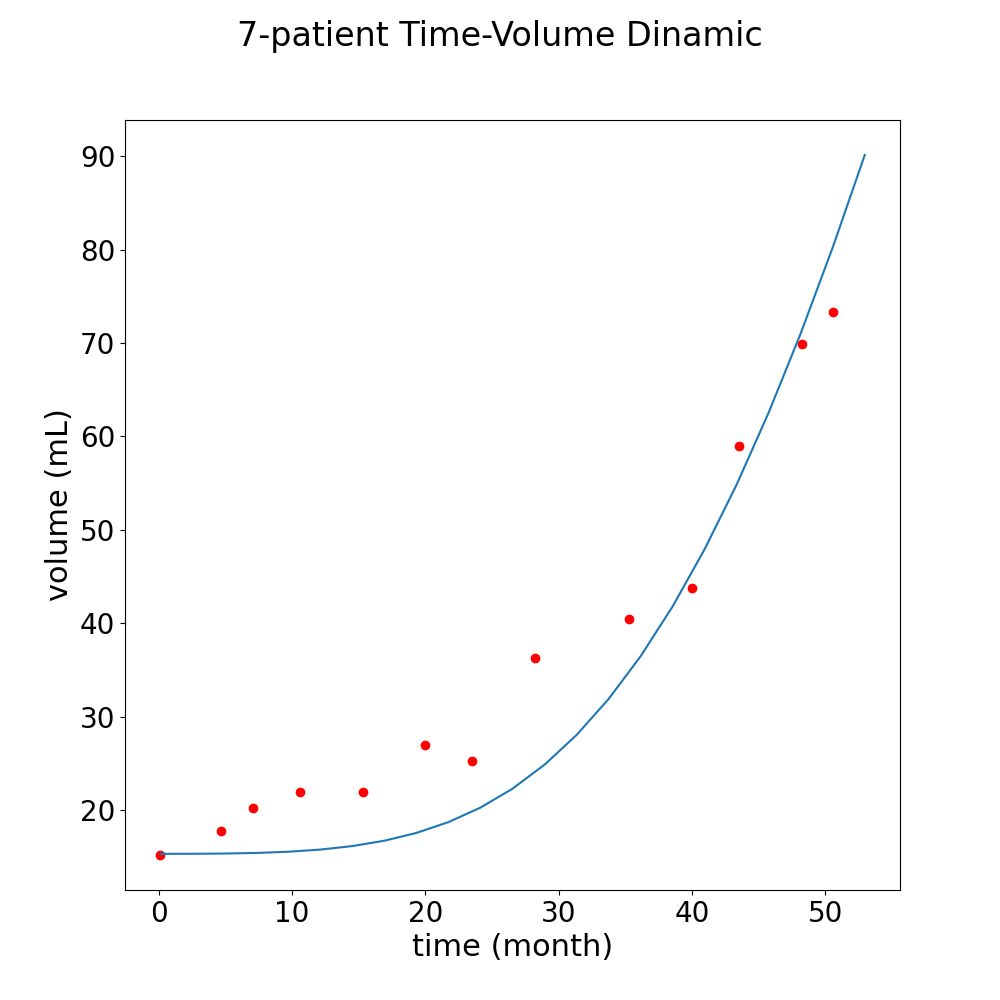
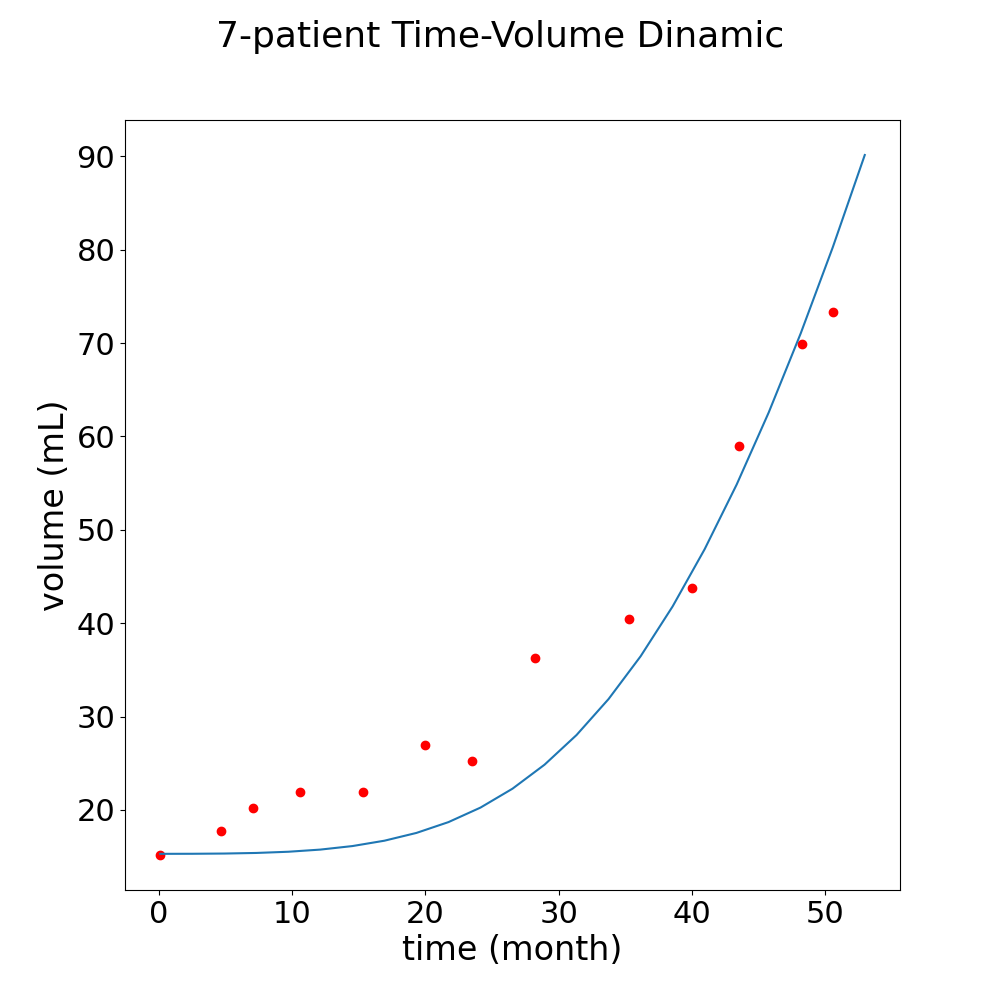
update the plot (more fontsize) and recalclulate (fix bugs) with relative error

diff --git a/NotLinearCancerModel/CancerVolumePlot.py b/NotLinearCancerModel/CancerVolumePlot.py
@@ -69,12 +69,12 @@ for number in range(1, quantity + 1):
     fig = plt.figure(figsize=(10, 10))
     ax = fig.add_subplot(111)
 
-    fig.suptitle(f"{number}-patient Time-Volume Dinamic", fontsize=24)
+    fig.suptitle(f"{number}-patient Time-Volume Dinamic", fontsize=26)
     #plt.xlabel('time (month)', fontsize=22)
-    plt.xlabel('time (month)', fontsize=22)
-    plt.ylabel('volume (mL)', fontsize=22)
-    plt.xticks(fontsize=20)
-    plt.yticks(fontsize=20)
+    plt.xlabel('time (month)', fontsize=24)
+    plt.ylabel('volume (mL)', fontsize=24)
+    plt.xticks(fontsize=22)
+    plt.yticks(fontsize=22)
     plt.plot(timeValues, cancerValues)
     plt.scatter(experimentalTimeValues, experimentalCancerValues, c = "red")  
     # plt.show()
